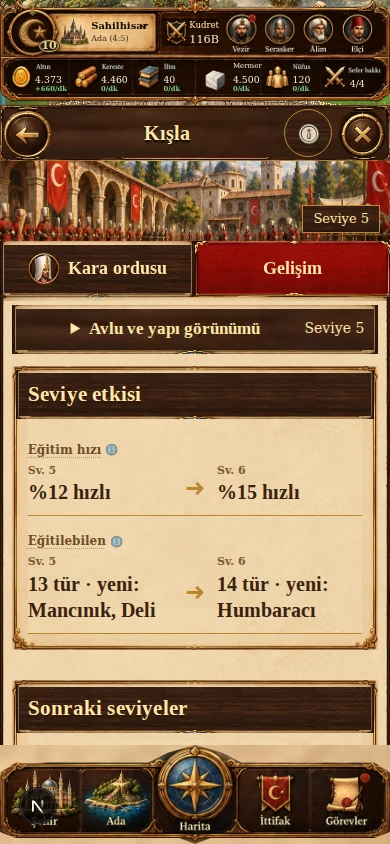
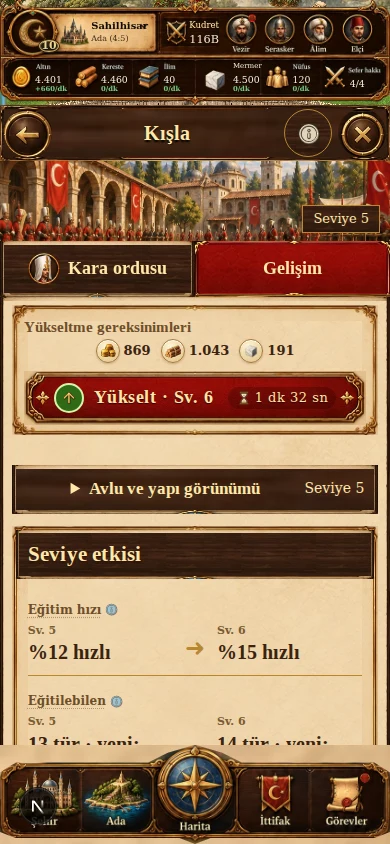
Place barracks upgrade action first in Development

diff --git a/payitaht/lib/game/changelog.ts b/payitaht/lib/game/changelog.ts
@@ -5,6 +5,7 @@
 export type Release = { version: string; date: string; title: string; notes: string[] }
 
 export const CHANGELOG: Release[] = [
+  { version: '0.68.1', date: '8 Ekim 2026', title: 'Kışlada önce yükseltme', notes: ['Gelişim sekmesinde yükseltme gereksinimleri ve düğmesi en üstte; seviye etkisi ve sonraki maliyetler altında okunur.'] },
   { version: '0.68.0', date: '8 Ekim 2026', title: 'Kışlada çizimin gerçek malzemeleri', notes: ['Onaylı çizimden yakın plan asker portreleri, işlemeli pirinç çerçeveler, temiz parşömen ve kırmızı kumaş eğitim düğmesi.', 'Gelişim, eğitim sırası ve ordu bilgileri aynı görsel dilde; dikey birlik listesi ve yatay adet barı korunur.'] },
   { version: '0.67.0', date: '8 Ekim 2026', title: 'Kışlada dikey birlik defteri', notes: ['Birlikler alt alta açılan satırlarda; eğitim adedi sağa sola sürüklenen bar, sayı girişi ve yuvarlak kontrollerle seçilir.', 'Onaylanan Osmanlı çerçeveleri, ceviz–pirinç düğmeler ve kırmızı eğitim eylemi kullanılır. Kara ordusu sekmesinde yeniçeri simgesi vardır; Gelişim, HUD ve oyun hesapları korunur.'] },
   { version: '0.66.1', date: '8 Ekim 2026', title: 'Kışlada eğitim alanına yer açıldı', notes: ['Sabit yükseltme kutusu Gelişim sekmesine taşındı; avlu isteğe bağlı açılır. Kışla doğrudan birlik seçimi ve eğitim alanıyla açılır.', 'Tekrarlanan başlık ve bilgiler kaldırıldı, sekmeler kaydırırken erişilebilir kaldı. Oyun kuralları ve üst/alt bar korunur.'] },

diff --git a/payitaht/components/game/building-page.tsx b/payitaht/components/game/building-page.tsx
@@ -458,6 +458,7 @@ export function BuildingPage({ game, empire, id, onClose, onBuild, onFlip, onMov
         {children}
       </div>
       <div className="bp-tabpanel" hidden={showTab !== 'gelisim'}>
+      {id === 'kisla' && <UpgradeDock game={game} id={id} onBuild={onBuild} />}
       {id === 'kisla' && <details className="barracks-appearance">
         <summary className="barracks-ribbon">Avlu ve yapı görünümü <span>{level ? `Seviye ${level}` : 'Kurulmadı'}</span></summary>
         {buildingScene}
@@ -470,7 +471,6 @@ export function BuildingPage({ game, empire, id, onClose, onBuild, onFlip, onMov
           time(f.seconds),
         ])} />
       </Box>}
-      {id === 'kisla' && <UpgradeDock game={game} id={id} onBuild={onBuild} />}
       </div>
   </IkaPage>
 }

diff --git a/payitaht/app/styles/49-barracks-register.css b/payitaht/app/styles/49-barracks-register.css
@@ -110,7 +110,7 @@
 .game-shell.has-page .bp.bp-of-kisla .barracks-appearance > summary > span { float: right; font: 14px/1.6 Georgia,serif; }
 .game-shell.has-page .bp.bp-of-kisla:not(.show-help) .bp-desc { display: none; }
 .game-shell.has-page .bp.bp-of-kisla .bp-tabs { position: sticky; top: 0; z-index: 3; }
-.game-shell.has-page .bp.bp-of-kisla .bp-tabpanel > .bp-dock { margin-top: 18px; }
+.game-shell.has-page .bp.bp-of-kisla .bp-tabpanel > .bp-dock { margin: 0 0 18px; }
 .game-shell.has-page .bp.bp-of-kisla:not(.show-help) .unit-top > span:nth-child(2) > small { display: none; }
 
 /* Approved 8 October vertical roster: the quantity bar alone slides sideways. */

diff --git a/payitaht/lib/pwa-cache.test.ts b/payitaht/lib/pwa-cache.test.ts
@@ -11,7 +11,7 @@ test('service worker Pages base path altında kaydolur', () => {
 
 test('service worker cache sürümü ve asset yenileme stratejisi güncel', () => {
   const sw = readFileSync('public/sw.js', 'utf8')
-  assert.match(sw, /payitaht-shell-v77/)
+  assert.match(sw, /payitaht-shell-v78/)
   assert.match(sw, /self\.registration\.scope/)
   assert.match(sw, /url\.pathname\.startsWith\(gameImages\)/)
   // Yalnızca JavaScript sözdizimini derle; self çağrıları çalıştırılmaz.

diff --git a/payitaht/public/sw.js b/payitaht/public/sw.js
@@ -1,4 +1,4 @@
-const CACHE = 'payitaht-shell-v77'
+const CACHE = 'payitaht-shell-v78'
 const BASE = new URL(self.registration.scope).pathname.replace(/\/$/, '')
 const p = path => `${BASE}${path.startsWith('/') ? path : `/${path}`}`
 const ASSETS = [

diff --git a/payitaht/docs/BARRACKS-VALIDATION.md b/payitaht/docs/BARRACKS-VALIDATION.md
@@ -37,3 +37,7 @@ Güncel kanıtlar `docs/mockups/barracks-roomy-*.webp` içinde. 360/390/430/864 
 328 test geçti. TypeScript, ESLint, CSS/unused CSS, V2 kriterleri ve Pages için statik üretim geçti. Sentetik kayıtla 360/390/430×844 ilk eğitim, 390×844 eğitim sırası, açılan ordu durumu/savaş meydanı, Gelişim ve yükseltme kontrolleri: altı layout kategorisi boş. Adet barı 1→17; sayı girişinden 2 Yeniçeri eğitim emri gerçek sıraya eklendi. Kışla kapsamı için kontrol, bütün uygulama için yeni bir yeşil tarama iddiası değildir.
 
 Güncel gerçek ekranlar `mockups/barracks-approved-live-{360,390,430}.webp`, `mockups/barracks-approved-development.webp`, `mockups/barracks-painted-{queue,army,upgrade}.webp`. Referans çizimle aynı veri veya boy oranı iddia edilmez: telefon ekranında gerçek HUD, tarayıcı alanı ve oyun verileri kullanılır. Eski sürümün yalnız renklerle benzerlik iddiası geçersizdir.
+
+## 0.68.1 — yükseltme önce
+
+Gelişim'in ilk çocuğu UpgradeDock; 390×844 gerçek tarayıcıda DOM sırası ve ilk ekran görüntüsü doğrulandı. Maliyet/süre ve yükseltme düğmesi en üstte; avlu/seviye etkisi/maliyet tablosu aşağıda. Kışla/Gelişim layout taramasının altı kategorisi boş. TypeScript, CSS/unused CSS ve iki PWA önbellek testi geçti. Önceki sürümün mekanikleri ve görsel parçaları aynıdır.

diff --git a/payitaht/docs/BARRACKS-DESIGN-MEMORY.md b/payitaht/docs/BARRACKS-DESIGN-MEMORY.md
@@ -1,3 +1,7 @@
+## Son yerleşim düzeltmesi — 0.68.1 / SW78
+
+Kullanıcının talebi: Gelişim sekmesinde önce eylem. Yükseltme gereksinimleri, maliyet/süre ve yükseltme düğmesi ilk bloktur. Avlu görünümü, seviye etkisi ve sonraki seviyelerin maliyet tablosu altında gelir. Yükseltme hâlâ yalnız Gelişim sekmesindedir; eğitim ekranına sabit kutu eklenmez.
+
 ## Son kullanıcı düzeltmesi — 0.68.0 / SW77
 
 0.67.0 kullanıcı tarafından çizime benzemediği için reddedildi. Renklerin benzemesi yeterli değildir: yakın plan portre, işlemeli çerçeve, temiz açık parşömen ve kırmızı kumaş eylem doğrudan görsel malzemeyle uygulanır. Onaylı çizim hâlâ `mockups/approved-barracks-vertical-slider.webp`.
